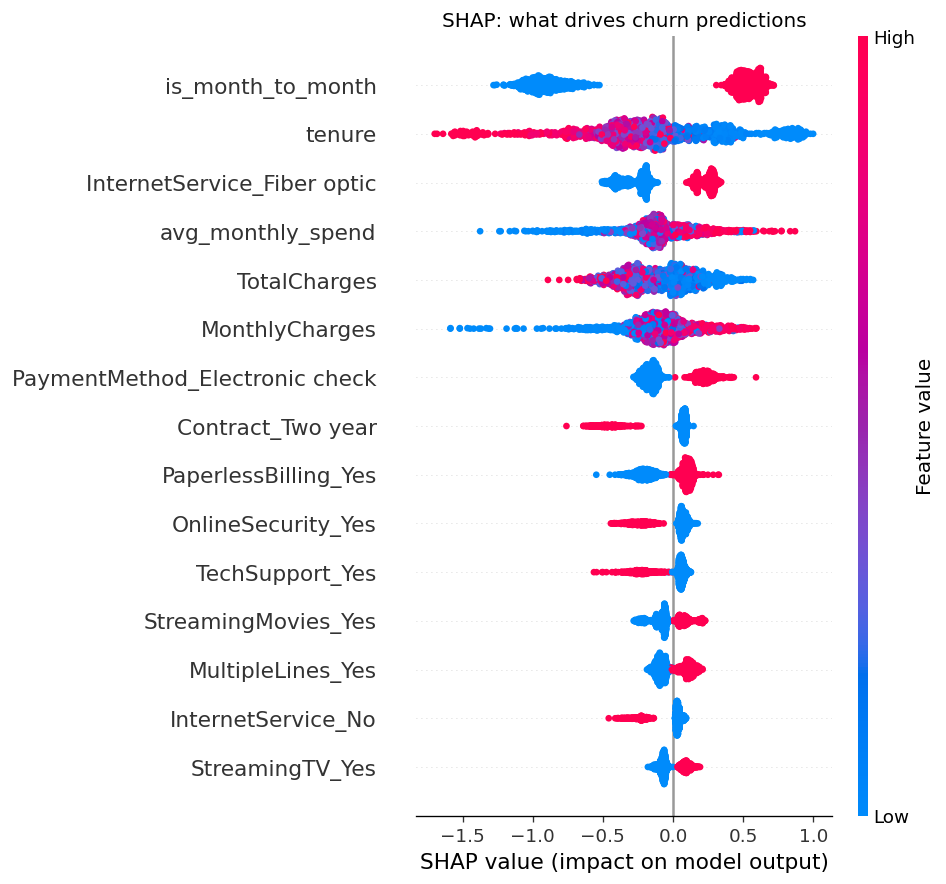
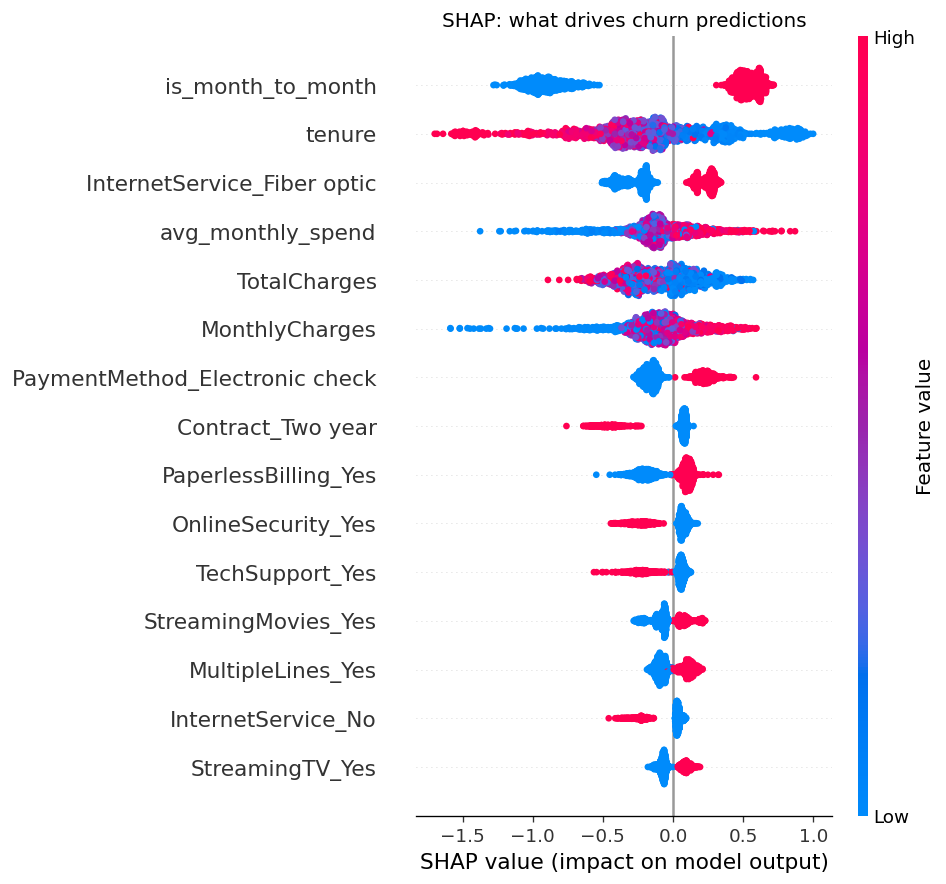
Add CORS, logistic regression model, and glass frontend

Changed region(s): [[0.6131, 0.2138, 0.797, 0.3971], [0.5825, 0.1222, 0.7664, 0.1833]]

diff --git a/src/api/app.py b/src/api/app.py
@@ -15,6 +15,7 @@ from pathlib import Path
 import joblib
 import pandas as pd
 from fastapi import FastAPI
+from fastapi.middleware.cors import CORSMiddleware
 from fastapi.responses import HTMLResponse
 from pydantic import BaseModel
 import sys
@@ -30,6 +31,15 @@ model = joblib.load(MODELS_DIR / "logistic_regression.joblib")
 feature_columns = joblib.load(MODELS_DIR / "feature_columns.joblib")
 
 app = FastAPI(title="Customer Churn Prediction API", version="1.0.0")
+# Allow the frontend (e.g. on Vercel) to call this API from another domain.
+app.add_middleware(
+    CORSMiddleware,
+    allow_origins=["*"],          # we'll tighten this to your Vercel URL later
+    allow_credentials=True,
+    allow_methods=["*"],
+    allow_headers=["*"],
+)
+
 
 
 class Customer(BaseModel):
